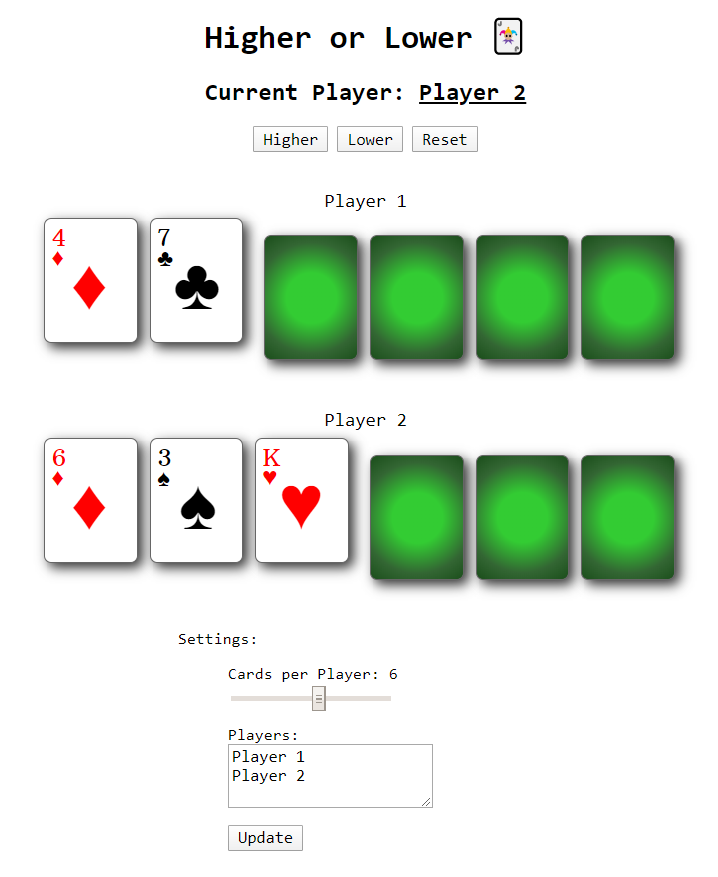
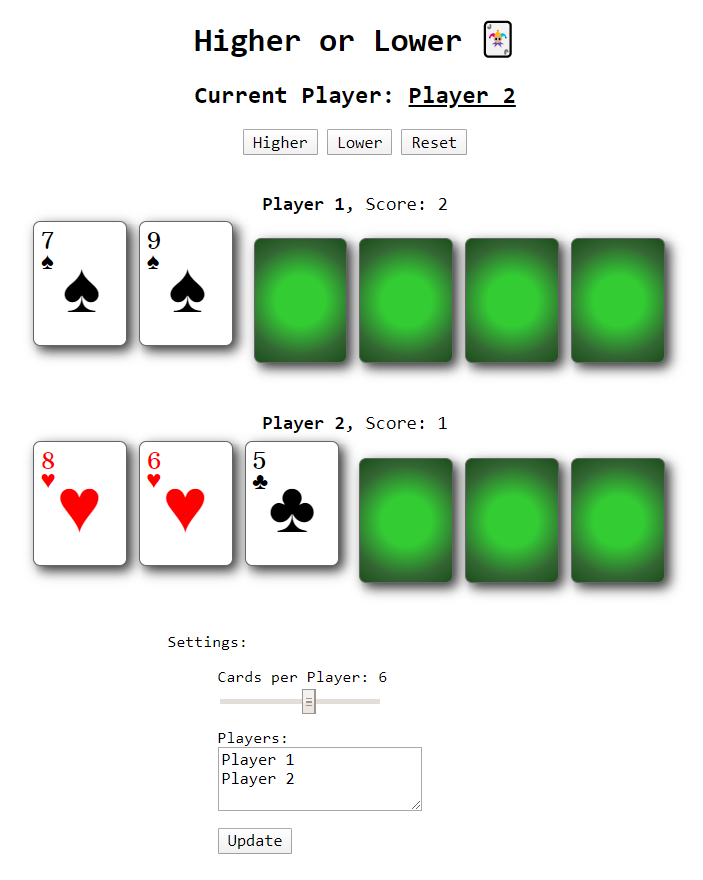
Add player scores

diff --git a/index.html b/index.html
@@ -26,7 +26,9 @@
         <button v-on:click="reset()">Reset</button>
       </div>
       <div v-for="player in players" class="playingCards simpleCards">
-        <p class="playerName">{{ player.name }}</P>
+        <p class="playerName">
+          <b>{{ player.name }}</b>, Score: {{ player.score }}
+        </p>
         <div v-for="card in player.cards" class="card" :class="card.getClass()">
           <span class="rank">{{ card.rank.toUpperCase() }}</span>
           <span class="suit" v-html="card.symbol()"></span>

diff --git a/js/main.js b/js/main.js
@@ -15,6 +15,7 @@ function Card(suit, rank) {
 function Player(name) {
   this.name = name;
   this.cards = [];
+  this.score = 0;
 }
 
 window.onload = function() {
@@ -140,6 +141,7 @@ var app = new Vue({
         // Player has correctly guessed the final card.
         this.gameOver = true;
         this.winner = this.players[this.currPlayer];
+        this.winner.score++;
         return;
       }
 

diff --git a/README.md b/README.md
@@ -7,8 +7,8 @@ The rules can be found on the [site](https://higherorlower.rishk.me).
 Supports a customisable number of players and cards per player.
 
 Todo:
- - Add scores for each player.
  - Add dark mode.
+ - Save settings in local storage.
 
 Playing Card Design:
 [CSS-Playing-Cards](http://selfthinker.github.com/CSS-Playing-Cards/)
